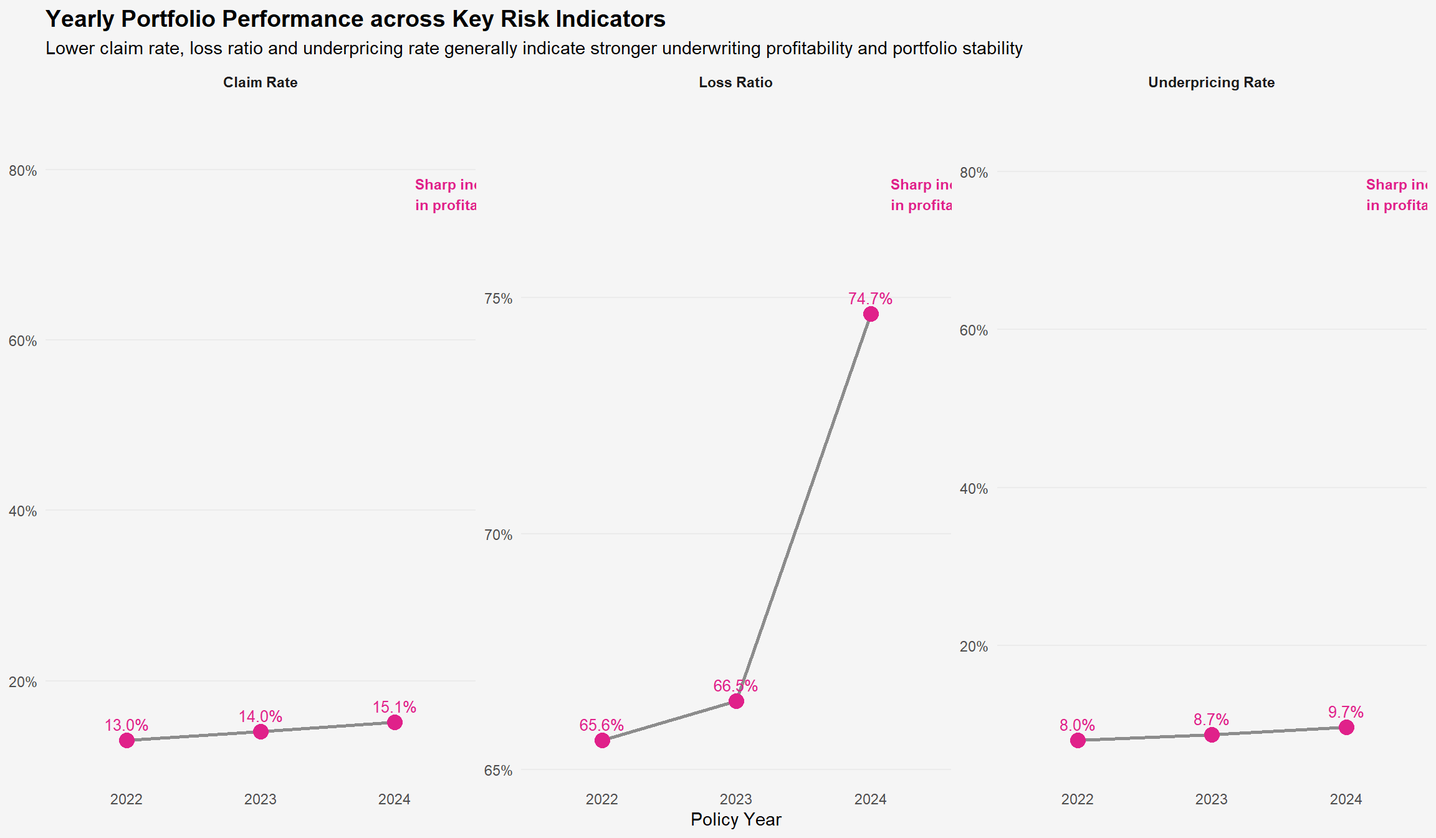
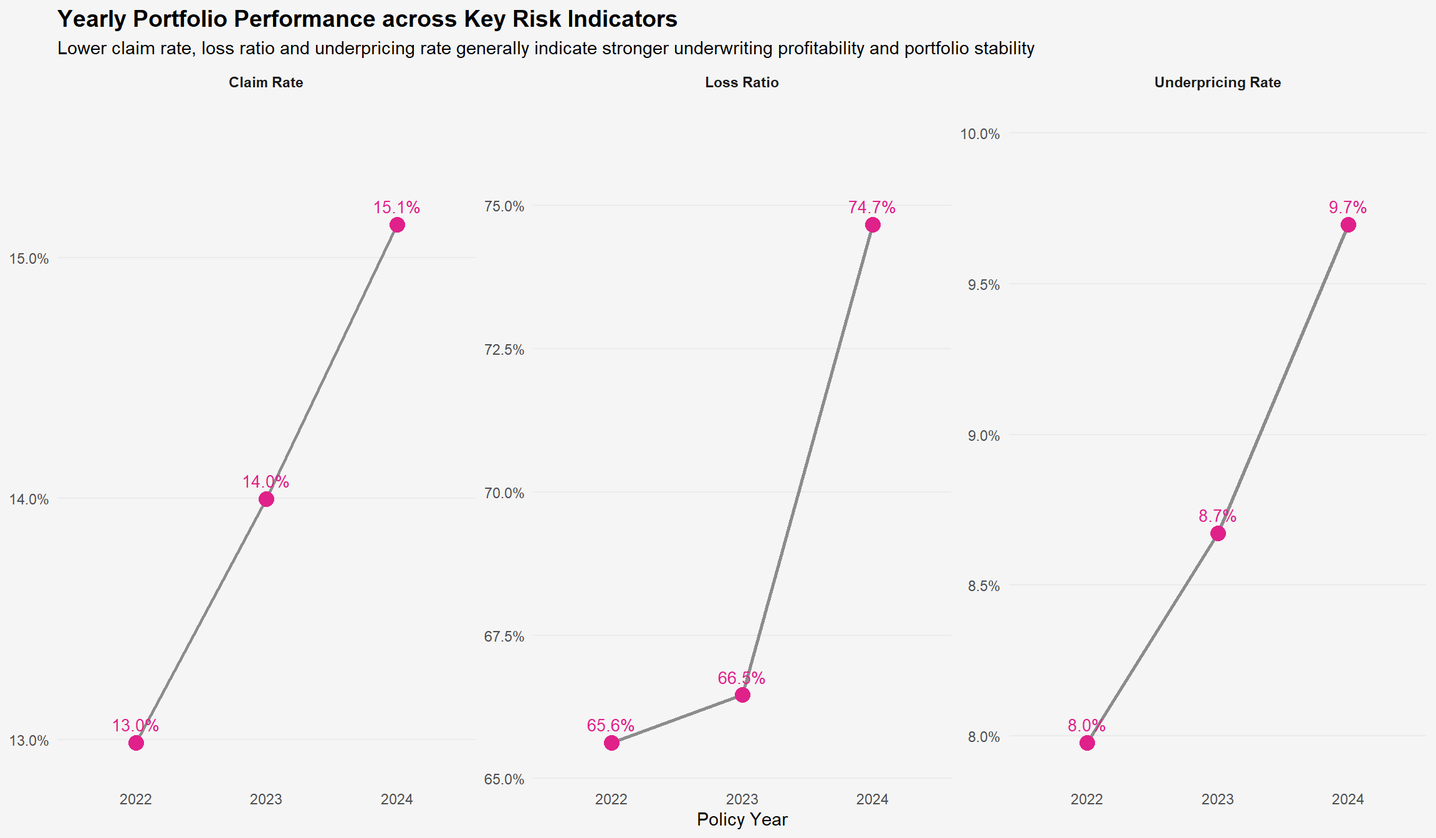
Revision to Take Home Exercise1

diff --git a/docs/Take-Home_Ex/Take-Home_Ex01/Take-Home_Ex01.html b/docs/Take-Home_Ex/Take-Home_Ex01/Take-Home_Ex01.html
@@ -314,6 +314,7 @@ pre > code.sourceCode > span > a:first-child::before { text-decoration: underlin
   <li><a href="#summary" id="toc-summary" class="nav-link" data-scroll-target="#summary">6 Summary</a>
   <ul class="collapse">
   <li><a href="#key-findings" id="toc-key-findings" class="nav-link" data-scroll-target="#key-findings">Key Findings</a></li>
+  <li><a href="#recommendations-for-future-research" id="toc-recommendations-for-future-research" class="nav-link" data-scroll-target="#recommendations-for-future-research">Recommendations for Future Research</a></li>
   </ul></li>
   <li><a href="#references" id="toc-references" class="nav-link" data-scroll-target="#references">7 <strong>References</strong></a></li>
   </ul>
@@ -2773,187 +2774,142 @@ $ loss_ratio_group         &lt;chr&gt; "No loss", "No loss", "Low loss ratio", "
 <span id="cb25-2"><a href="#cb25-2" aria-hidden="true" tabindex="-1"></a>  motor_feature <span class="sc">|&gt;</span></span>
 <span id="cb25-3"><a href="#cb25-3" aria-hidden="true" tabindex="-1"></a>  <span class="fu">group_by</span>(year) <span class="sc">|&gt;</span></span>
 <span id="cb25-4"><a href="#cb25-4" aria-hidden="true" tabindex="-1"></a>  <span class="fu">summarise</span>(</span>
-<span id="cb25-5"><a href="#cb25-5" aria-hidden="true" tabindex="-1"></a>    </span>
-<span id="cb25-6"><a href="#cb25-6" aria-hidden="true" tabindex="-1"></a>    <span class="at">total_policies =</span> <span class="fu">n</span>(),</span>
-<span id="cb25-7"><a href="#cb25-7" aria-hidden="true" tabindex="-1"></a></span>
-<span id="cb25-8"><a href="#cb25-8" aria-hidden="true" tabindex="-1"></a>    <span class="at">claim_rate =</span></span>
-<span id="cb25-9"><a href="#cb25-9" aria-hidden="true" tabindex="-1"></a>      <span class="fu">mean</span>(</span>
-<span id="cb25-10"><a href="#cb25-10" aria-hidden="true" tabindex="-1"></a>        claim_status <span class="sc">==</span> <span class="st">"Claim reported"</span>,</span>
-<span id="cb25-11"><a href="#cb25-11" aria-hidden="true" tabindex="-1"></a>        <span class="at">na.rm =</span> <span class="cn">TRUE</span></span>
-<span id="cb25-12"><a href="#cb25-12" aria-hidden="true" tabindex="-1"></a>      ),</span>
-<span id="cb25-13"><a href="#cb25-13" aria-hidden="true" tabindex="-1"></a></span>
-<span id="cb25-14"><a href="#cb25-14" aria-hidden="true" tabindex="-1"></a>    <span class="at">loss_ratio =</span></span>
-<span id="cb25-15"><a href="#cb25-15" aria-hidden="true" tabindex="-1"></a>      <span class="fu">sum</span>(</span>
-<span id="cb25-16"><a href="#cb25-16" aria-hidden="true" tabindex="-1"></a>        total_incurred,</span>
-<span id="cb25-17"><a href="#cb25-17" aria-hidden="true" tabindex="-1"></a>        <span class="at">na.rm =</span> <span class="cn">TRUE</span></span>
-<span id="cb25-18"><a href="#cb25-18" aria-hidden="true" tabindex="-1"></a>      ) <span class="sc">/</span></span>
-<span id="cb25-19"><a href="#cb25-19" aria-hidden="true" tabindex="-1"></a>      <span class="fu">sum</span>(</span>
-<span id="cb25-20"><a href="#cb25-20" aria-hidden="true" tabindex="-1"></a>        total_premium,</span>
-<span id="cb25-21"><a href="#cb25-21" aria-hidden="true" tabindex="-1"></a>        <span class="at">na.rm =</span> <span class="cn">TRUE</span></span>
-<span id="cb25-22"><a href="#cb25-22" aria-hidden="true" tabindex="-1"></a>      ),</span>
-<span id="cb25-23"><a href="#cb25-23" aria-hidden="true" tabindex="-1"></a></span>
-<span id="cb25-24"><a href="#cb25-24" aria-hidden="true" tabindex="-1"></a>    <span class="at">underpricing_rate =</span></span>
-<span id="cb25-25"><a href="#cb25-25" aria-hidden="true" tabindex="-1"></a>      <span class="fu">mean</span>(</span>
-<span id="cb25-26"><a href="#cb25-26" aria-hidden="true" tabindex="-1"></a>        total_incurred <span class="sc">&gt;</span> total_premium,</span>
-<span id="cb25-27"><a href="#cb25-27" aria-hidden="true" tabindex="-1"></a>        <span class="at">na.rm =</span> <span class="cn">TRUE</span></span>
-<span id="cb25-28"><a href="#cb25-28" aria-hidden="true" tabindex="-1"></a>      ),</span>
-<span id="cb25-29"><a href="#cb25-29" aria-hidden="true" tabindex="-1"></a></span>
-<span id="cb25-30"><a href="#cb25-30" aria-hidden="true" tabindex="-1"></a>    <span class="at">.groups =</span> <span class="st">"drop"</span></span>
-<span id="cb25-31"><a href="#cb25-31" aria-hidden="true" tabindex="-1"></a>  ) <span class="sc">|&gt;</span></span>
-<span id="cb25-32"><a href="#cb25-32" aria-hidden="true" tabindex="-1"></a></span>
-<span id="cb25-33"><a href="#cb25-33" aria-hidden="true" tabindex="-1"></a>  <span class="fu">pivot_longer</span>(</span>
-<span id="cb25-34"><a href="#cb25-34" aria-hidden="true" tabindex="-1"></a>    <span class="at">cols =</span> <span class="fu">c</span>(</span>
-<span id="cb25-35"><a href="#cb25-35" aria-hidden="true" tabindex="-1"></a>      claim_rate,</span>
-<span id="cb25-36"><a href="#cb25-36" aria-hidden="true" tabindex="-1"></a>      loss_ratio,</span>
-<span id="cb25-37"><a href="#cb25-37" aria-hidden="true" tabindex="-1"></a>      underpricing_rate</span>
-<span id="cb25-38"><a href="#cb25-38" aria-hidden="true" tabindex="-1"></a>    ),</span>
-<span id="cb25-39"><a href="#cb25-39" aria-hidden="true" tabindex="-1"></a></span>
-<span id="cb25-40"><a href="#cb25-40" aria-hidden="true" tabindex="-1"></a>    <span class="at">names_to =</span> <span class="st">"metric"</span>,</span>
-<span id="cb25-41"><a href="#cb25-41" aria-hidden="true" tabindex="-1"></a></span>
-<span id="cb25-42"><a href="#cb25-42" aria-hidden="true" tabindex="-1"></a>    <span class="at">values_to =</span> <span class="st">"value"</span></span>
-<span id="cb25-43"><a href="#cb25-43" aria-hidden="true" tabindex="-1"></a>  ) <span class="sc">|&gt;</span></span>
-<span id="cb25-44"><a href="#cb25-44" aria-hidden="true" tabindex="-1"></a></span>
-<span id="cb25-45"><a href="#cb25-45" aria-hidden="true" tabindex="-1"></a>  <span class="fu">mutate</span>(</span>
-<span id="cb25-46"><a href="#cb25-46" aria-hidden="true" tabindex="-1"></a>    </span>
-<span id="cb25-47"><a href="#cb25-47" aria-hidden="true" tabindex="-1"></a>    <span class="at">metric =</span></span>
-<span id="cb25-48"><a href="#cb25-48" aria-hidden="true" tabindex="-1"></a>      <span class="fu">case_when</span>(</span>
-<span id="cb25-49"><a href="#cb25-49" aria-hidden="true" tabindex="-1"></a>        metric <span class="sc">==</span> <span class="st">"claim_rate"</span> <span class="sc">~</span> <span class="st">"Claim Rate"</span>,</span>
-<span id="cb25-50"><a href="#cb25-50" aria-hidden="true" tabindex="-1"></a>        metric <span class="sc">==</span> <span class="st">"loss_ratio"</span> <span class="sc">~</span> <span class="st">"Loss Ratio"</span>,</span>
-<span id="cb25-51"><a href="#cb25-51" aria-hidden="true" tabindex="-1"></a>        metric <span class="sc">==</span> <span class="st">"underpricing_rate"</span> <span class="sc">~</span> <span class="st">"Underpricing Rate"</span></span>
-<span id="cb25-52"><a href="#cb25-52" aria-hidden="true" tabindex="-1"></a>      )</span>
-<span id="cb25-53"><a href="#cb25-53" aria-hidden="true" tabindex="-1"></a>  )</span>
-<span id="cb25-54"><a href="#cb25-54" aria-hidden="true" tabindex="-1"></a></span>
-<span id="cb25-55"><a href="#cb25-55" aria-hidden="true" tabindex="-1"></a>yearly_performance_plot <span class="ot">&lt;-</span></span>
-<span id="cb25-56"><a href="#cb25-56" aria-hidden="true" tabindex="-1"></a></span>
-<span id="cb25-57"><a href="#cb25-57" aria-hidden="true" tabindex="-1"></a><span class="fu">ggplot</span>(</span>
-<span id="cb25-58"><a href="#cb25-58" aria-hidden="true" tabindex="-1"></a>  </span>
-<span id="cb25-59"><a href="#cb25-59" aria-hidden="true" tabindex="-1"></a>  yearly_performance,</span>
-<span id="cb25-60"><a href="#cb25-60" aria-hidden="true" tabindex="-1"></a></span>
-<span id="cb25-61"><a href="#cb25-61" aria-hidden="true" tabindex="-1"></a>  <span class="fu">aes</span>(</span>
-<span id="cb25-62"><a href="#cb25-62" aria-hidden="true" tabindex="-1"></a>    <span class="at">x =</span> <span class="fu">factor</span>(year),</span>
-<span id="cb25-63"><a href="#cb25-63" aria-hidden="true" tabindex="-1"></a>    <span class="at">y =</span> value,</span>
-<span id="cb25-64"><a href="#cb25-64" aria-hidden="true" tabindex="-1"></a>    <span class="at">group =</span> metric</span>
-<span id="cb25-65"><a href="#cb25-65" aria-hidden="true" tabindex="-1"></a>  )</span>
-<span id="cb25-66"><a href="#cb25-66" aria-hidden="true" tabindex="-1"></a></span>
-<span id="cb25-67"><a href="#cb25-67" aria-hidden="true" tabindex="-1"></a>)<span class="sc">+</span></span>
-<span id="cb25-68"><a href="#cb25-68" aria-hidden="true" tabindex="-1"></a></span>
-<span id="cb25-69"><a href="#cb25-69" aria-hidden="true" tabindex="-1"></a><span class="fu">geom_line</span>(</span>
-<span id="cb25-70"><a href="#cb25-70" aria-hidden="true" tabindex="-1"></a></span>
-<span id="cb25-71"><a href="#cb25-71" aria-hidden="true" tabindex="-1"></a>  <span class="at">colour =</span> <span class="st">"grey55"</span>,</span>
-<span id="cb25-72"><a href="#cb25-72" aria-hidden="true" tabindex="-1"></a></span>
-<span id="cb25-73"><a href="#cb25-73" aria-hidden="true" tabindex="-1"></a>  <span class="at">linewidth =</span> <span class="dv">1</span></span>
-<span id="cb25-74"><a href="#cb25-74" aria-hidden="true" tabindex="-1"></a></span>
-<span id="cb25-75"><a href="#cb25-75" aria-hidden="true" tabindex="-1"></a>)<span class="sc">+</span></span>
-<span id="cb25-76"><a href="#cb25-76" aria-hidden="true" tabindex="-1"></a></span>
-<span id="cb25-77"><a href="#cb25-77" aria-hidden="true" tabindex="-1"></a><span class="fu">geom_point</span>(</span>
-<span id="cb25-78"><a href="#cb25-78" aria-hidden="true" tabindex="-1"></a></span>
-<span id="cb25-79"><a href="#cb25-79" aria-hidden="true" tabindex="-1"></a>  <span class="at">colour =</span> <span class="st">"#E0218A"</span>,</span>
-<span id="cb25-80"><a href="#cb25-80" aria-hidden="true" tabindex="-1"></a></span>
-<span id="cb25-81"><a href="#cb25-81" aria-hidden="true" tabindex="-1"></a>  <span class="at">size =</span> <span class="dv">4</span></span>
-<span id="cb25-82"><a href="#cb25-82" aria-hidden="true" tabindex="-1"></a></span>
-<span id="cb25-83"><a href="#cb25-83" aria-hidden="true" tabindex="-1"></a>)<span class="sc">+</span></span>
-<span id="cb25-84"><a href="#cb25-84" aria-hidden="true" tabindex="-1"></a></span>
-<span id="cb25-85"><a href="#cb25-85" aria-hidden="true" tabindex="-1"></a><span class="fu">geom_text</span>(</span>
-<span id="cb25-86"><a href="#cb25-86" aria-hidden="true" tabindex="-1"></a></span>
-<span id="cb25-87"><a href="#cb25-87" aria-hidden="true" tabindex="-1"></a><span class="fu">aes</span>(</span>
-<span id="cb25-88"><a href="#cb25-88" aria-hidden="true" tabindex="-1"></a></span>
-<span id="cb25-89"><a href="#cb25-89" aria-hidden="true" tabindex="-1"></a><span class="at">label =</span></span>
-<span id="cb25-90"><a href="#cb25-90" aria-hidden="true" tabindex="-1"></a>  scales<span class="sc">::</span><span class="fu">percent</span>(</span>
-<span id="cb25-91"><a href="#cb25-91" aria-hidden="true" tabindex="-1"></a>    value,</span>
-<span id="cb25-92"><a href="#cb25-92" aria-hidden="true" tabindex="-1"></a>    <span class="at">accuracy =</span> <span class="fl">0.1</span></span>
-<span id="cb25-93"><a href="#cb25-93" aria-hidden="true" tabindex="-1"></a>  )</span>
-<span id="cb25-94"><a href="#cb25-94" aria-hidden="true" tabindex="-1"></a></span>
-<span id="cb25-95"><a href="#cb25-95" aria-hidden="true" tabindex="-1"></a>),</span>
-<span id="cb25-96"><a href="#cb25-96" aria-hidden="true" tabindex="-1"></a></span>
-<span id="cb25-97"><a href="#cb25-97" aria-hidden="true" tabindex="-1"></a><span class="at">vjust =</span> <span class="sc">-</span><span class="fl">0.8</span>,</span>
-<span id="cb25-98"><a href="#cb25-98" aria-hidden="true" tabindex="-1"></a><span class="at">size =</span> <span class="fl">3.4</span>,</span>
-<span id="cb25-99"><a href="#cb25-99" aria-hidden="true" tabindex="-1"></a><span class="at">colour =</span> <span class="st">"#E0218A"</span></span>
-<span id="cb25-100"><a href="#cb25-100" aria-hidden="true" tabindex="-1"></a></span>
-<span id="cb25-101"><a href="#cb25-101" aria-hidden="true" tabindex="-1"></a>)<span class="sc">+</span></span>
-<span id="cb25-102"><a href="#cb25-102" aria-hidden="true" tabindex="-1"></a></span>
-<span id="cb25-103"><a href="#cb25-103" aria-hidden="true" tabindex="-1"></a><span class="fu">facet_wrap</span>(</span>
-<span id="cb25-104"><a href="#cb25-104" aria-hidden="true" tabindex="-1"></a><span class="sc">~</span> metric,</span>
-<span id="cb25-105"><a href="#cb25-105" aria-hidden="true" tabindex="-1"></a><span class="at">scales =</span> <span class="st">"free_y"</span></span>
-<span id="cb25-106"><a href="#cb25-106" aria-hidden="true" tabindex="-1"></a></span>
-<span id="cb25-107"><a href="#cb25-107" aria-hidden="true" tabindex="-1"></a>)<span class="sc">+</span></span>
-<span id="cb25-108"><a href="#cb25-108" aria-hidden="true" tabindex="-1"></a></span>
-<span id="cb25-109"><a href="#cb25-109" aria-hidden="true" tabindex="-1"></a><span class="fu">annotate</span>(</span>
-<span id="cb25-110"><a href="#cb25-110" aria-hidden="true" tabindex="-1"></a><span class="st">"text"</span>,</span>
-<span id="cb25-111"><a href="#cb25-111" aria-hidden="true" tabindex="-1"></a><span class="at">x =</span> <span class="fl">3.15</span>,</span>
-<span id="cb25-112"><a href="#cb25-112" aria-hidden="true" tabindex="-1"></a><span class="at">y =</span> <span class="fl">0.772</span>,</span>
-<span id="cb25-113"><a href="#cb25-113" aria-hidden="true" tabindex="-1"></a><span class="at">label =</span></span>
-<span id="cb25-114"><a href="#cb25-114" aria-hidden="true" tabindex="-1"></a>  <span class="st">"Sharp increase</span><span class="sc">\n</span><span class="st">in profitability pressure"</span>,</span>
-<span id="cb25-115"><a href="#cb25-115" aria-hidden="true" tabindex="-1"></a><span class="at">size =</span> <span class="dv">3</span>,</span>
-<span id="cb25-116"><a href="#cb25-116" aria-hidden="true" tabindex="-1"></a><span class="at">colour =</span> <span class="st">"#E0218A"</span>,</span>
-<span id="cb25-117"><a href="#cb25-117" aria-hidden="true" tabindex="-1"></a><span class="at">fontface =</span> <span class="st">"bold"</span>,</span>
-<span id="cb25-118"><a href="#cb25-118" aria-hidden="true" tabindex="-1"></a><span class="at">hjust =</span> <span class="dv">0</span></span>
-<span id="cb25-119"><a href="#cb25-119" aria-hidden="true" tabindex="-1"></a></span>
-<span id="cb25-120"><a href="#cb25-120" aria-hidden="true" tabindex="-1"></a>)<span class="sc">+</span></span>
-<span id="cb25-121"><a href="#cb25-121" aria-hidden="true" tabindex="-1"></a></span>
-<span id="cb25-122"><a href="#cb25-122" aria-hidden="true" tabindex="-1"></a><span class="fu">scale_y_continuous</span>(</span>
-<span id="cb25-123"><a href="#cb25-123" aria-hidden="true" tabindex="-1"></a></span>
-<span id="cb25-124"><a href="#cb25-124" aria-hidden="true" tabindex="-1"></a><span class="at">labels =</span></span>
-<span id="cb25-125"><a href="#cb25-125" aria-hidden="true" tabindex="-1"></a>  scales<span class="sc">::</span>percent,</span>
-<span id="cb25-126"><a href="#cb25-126" aria-hidden="true" tabindex="-1"></a></span>
-<span id="cb25-127"><a href="#cb25-127" aria-hidden="true" tabindex="-1"></a><span class="at">expand =</span></span>
-<span id="cb25-128"><a href="#cb25-128" aria-hidden="true" tabindex="-1"></a>  <span class="fu">expansion</span>(</span>
-<span id="cb25-129"><a href="#cb25-129" aria-hidden="true" tabindex="-1"></a>    <span class="at">mult =</span> <span class="fu">c</span>(</span>
-<span id="cb25-130"><a href="#cb25-130" aria-hidden="true" tabindex="-1"></a>      <span class="fl">0.08</span>,</span>
-<span id="cb25-131"><a href="#cb25-131" aria-hidden="true" tabindex="-1"></a>      <span class="fl">0.18</span></span>
-<span id="cb25-132"><a href="#cb25-132" aria-hidden="true" tabindex="-1"></a>    )</span>
-<span id="cb25-133"><a href="#cb25-133" aria-hidden="true" tabindex="-1"></a>  )</span>
-<span id="cb25-134"><a href="#cb25-134" aria-hidden="true" tabindex="-1"></a></span>
-<span id="cb25-135"><a href="#cb25-135" aria-hidden="true" tabindex="-1"></a>)<span class="sc">+</span></span>
-<span id="cb25-136"><a href="#cb25-136" aria-hidden="true" tabindex="-1"></a></span>
-<span id="cb25-137"><a href="#cb25-137" aria-hidden="true" tabindex="-1"></a><span class="fu">labs</span>(</span>
-<span id="cb25-138"><a href="#cb25-138" aria-hidden="true" tabindex="-1"></a></span>
-<span id="cb25-139"><a href="#cb25-139" aria-hidden="true" tabindex="-1"></a><span class="at">title =</span></span>
-<span id="cb25-140"><a href="#cb25-140" aria-hidden="true" tabindex="-1"></a>  <span class="st">"Yearly Portfolio Performance across Key Risk Indicators"</span>,</span>
-<span id="cb25-141"><a href="#cb25-141" aria-hidden="true" tabindex="-1"></a><span class="at">subtitle =</span></span>
-<span id="cb25-142"><a href="#cb25-142" aria-hidden="true" tabindex="-1"></a>  <span class="st">"Lower claim rate, loss ratio and underpricing rate generally indicate stronger underwriting profitability and portfolio stability"</span>,</span>
-<span id="cb25-143"><a href="#cb25-143" aria-hidden="true" tabindex="-1"></a><span class="at">x =</span></span>
-<span id="cb25-144"><a href="#cb25-144" aria-hidden="true" tabindex="-1"></a>  <span class="st">"Policy Year"</span>,</span>
-<span id="cb25-145"><a href="#cb25-145" aria-hidden="true" tabindex="-1"></a><span class="at">y =</span> <span class="cn">NULL</span></span>
-<span id="cb25-146"><a href="#cb25-146" aria-hidden="true" tabindex="-1"></a></span>
-<span id="cb25-147"><a href="#cb25-147" aria-hidden="true" tabindex="-1"></a>)<span class="sc">+</span></span>
-<span id="cb25-148"><a href="#cb25-148" aria-hidden="true" tabindex="-1"></a></span>
-<span id="cb25-149"><a href="#cb25-149" aria-hidden="true" tabindex="-1"></a><span class="fu">theme_minimal</span>()<span class="sc">+</span></span>
-<span id="cb25-150"><a href="#cb25-150" aria-hidden="true" tabindex="-1"></a></span>
-<span id="cb25-151"><a href="#cb25-151" aria-hidden="true" tabindex="-1"></a><span class="fu">theme</span>(</span>
-<span id="cb25-152"><a href="#cb25-152" aria-hidden="true" tabindex="-1"></a><span class="at">panel.grid.major.x =</span></span>
-<span id="cb25-153"><a href="#cb25-153" aria-hidden="true" tabindex="-1"></a>  <span class="fu">element_blank</span>(),</span>
-<span id="cb25-154"><a href="#cb25-154" aria-hidden="true" tabindex="-1"></a><span class="at">panel.grid.minor =</span></span>
-<span id="cb25-155"><a href="#cb25-155" aria-hidden="true" tabindex="-1"></a>  <span class="fu">element_blank</span>(),</span>
-<span id="cb25-156"><a href="#cb25-156" aria-hidden="true" tabindex="-1"></a></span>
-<span id="cb25-157"><a href="#cb25-157" aria-hidden="true" tabindex="-1"></a><span class="at">plot.background =</span></span>
-<span id="cb25-158"><a href="#cb25-158" aria-hidden="true" tabindex="-1"></a>  <span class="fu">element_rect</span>(</span>
-<span id="cb25-159"><a href="#cb25-159" aria-hidden="true" tabindex="-1"></a>    <span class="at">fill =</span> <span class="st">"#f5f5f5"</span>,</span>
-<span id="cb25-160"><a href="#cb25-160" aria-hidden="true" tabindex="-1"></a>    <span class="at">colour =</span> <span class="st">"#f5f5f5"</span></span>
-<span id="cb25-161"><a href="#cb25-161" aria-hidden="true" tabindex="-1"></a>  ),</span>
-<span id="cb25-162"><a href="#cb25-162" aria-hidden="true" tabindex="-1"></a></span>
-<span id="cb25-163"><a href="#cb25-163" aria-hidden="true" tabindex="-1"></a><span class="at">panel.background =</span></span>
-<span id="cb25-164"><a href="#cb25-164" aria-hidden="true" tabindex="-1"></a>  <span class="fu">element_rect</span>(</span>
-<span id="cb25-165"><a href="#cb25-165" aria-hidden="true" tabindex="-1"></a>    <span class="at">fill =</span> <span class="st">"#f5f5f5"</span>,</span>
-<span id="cb25-166"><a href="#cb25-166" aria-hidden="true" tabindex="-1"></a>    <span class="at">colour =</span> <span class="st">"#f5f5f5"</span></span>
-<span id="cb25-167"><a href="#cb25-167" aria-hidden="true" tabindex="-1"></a>  ),</span>
-<span id="cb25-168"><a href="#cb25-168" aria-hidden="true" tabindex="-1"></a></span>
-<span id="cb25-169"><a href="#cb25-169" aria-hidden="true" tabindex="-1"></a><span class="at">strip.text =</span></span>
-<span id="cb25-170"><a href="#cb25-170" aria-hidden="true" tabindex="-1"></a>  <span class="fu">element_text</span>(</span>
-<span id="cb25-171"><a href="#cb25-171" aria-hidden="true" tabindex="-1"></a>    <span class="at">face =</span> <span class="st">"bold"</span></span>
-<span id="cb25-172"><a href="#cb25-172" aria-hidden="true" tabindex="-1"></a>  ),</span>
-<span id="cb25-173"><a href="#cb25-173" aria-hidden="true" tabindex="-1"></a></span>
-<span id="cb25-174"><a href="#cb25-174" aria-hidden="true" tabindex="-1"></a><span class="at">plot.title =</span></span>
-<span id="cb25-175"><a href="#cb25-175" aria-hidden="true" tabindex="-1"></a>  <span class="fu">element_text</span>(</span>
-<span id="cb25-176"><a href="#cb25-176" aria-hidden="true" tabindex="-1"></a>    <span class="at">face =</span> <span class="st">"bold"</span>,</span>
-<span id="cb25-177"><a href="#cb25-177" aria-hidden="true" tabindex="-1"></a>    <span class="at">size =</span> <span class="dv">14</span></span>
-<span id="cb25-178"><a href="#cb25-178" aria-hidden="true" tabindex="-1"></a>  ),</span>
-<span id="cb25-179"><a href="#cb25-179" aria-hidden="true" tabindex="-1"></a></span>
-<span id="cb25-180"><a href="#cb25-180" aria-hidden="true" tabindex="-1"></a><span class="at">axis.ticks =</span></span>
-<span id="cb25-181"><a href="#cb25-181" aria-hidden="true" tabindex="-1"></a>  <span class="fu">element_blank</span>()</span>
-<span id="cb25-182"><a href="#cb25-182" aria-hidden="true" tabindex="-1"></a></span>
-<span id="cb25-183"><a href="#cb25-183" aria-hidden="true" tabindex="-1"></a>)</span>
-<span id="cb25-184"><a href="#cb25-184" aria-hidden="true" tabindex="-1"></a></span>
-<span id="cb25-185"><a href="#cb25-185" aria-hidden="true" tabindex="-1"></a>yearly_performance_plot</span></code></pre></div><button title="Copy to Clipboard" class="code-copy-button"><i class="bi"></i></button></div>
+<span id="cb25-5"><a href="#cb25-5" aria-hidden="true" tabindex="-1"></a>    <span class="at">total_policies =</span> <span class="fu">n</span>(),</span>
+<span id="cb25-6"><a href="#cb25-6" aria-hidden="true" tabindex="-1"></a></span>
+<span id="cb25-7"><a href="#cb25-7" aria-hidden="true" tabindex="-1"></a>    <span class="at">claim_rate =</span></span>
+<span id="cb25-8"><a href="#cb25-8" aria-hidden="true" tabindex="-1"></a>      <span class="fu">mean</span>(</span>
+<span id="cb25-9"><a href="#cb25-9" aria-hidden="true" tabindex="-1"></a>        claim_status <span class="sc">==</span> <span class="st">"Claim reported"</span>,</span>
+<span id="cb25-10"><a href="#cb25-10" aria-hidden="true" tabindex="-1"></a>        <span class="at">na.rm =</span> <span class="cn">TRUE</span></span>
+<span id="cb25-11"><a href="#cb25-11" aria-hidden="true" tabindex="-1"></a>      ),</span>
+<span id="cb25-12"><a href="#cb25-12" aria-hidden="true" tabindex="-1"></a></span>
+<span id="cb25-13"><a href="#cb25-13" aria-hidden="true" tabindex="-1"></a>    <span class="at">loss_ratio =</span></span>
+<span id="cb25-14"><a href="#cb25-14" aria-hidden="true" tabindex="-1"></a>      <span class="fu">sum</span>(</span>
+<span id="cb25-15"><a href="#cb25-15" aria-hidden="true" tabindex="-1"></a>        total_incurred,</span>
+<span id="cb25-16"><a href="#cb25-16" aria-hidden="true" tabindex="-1"></a>        <span class="at">na.rm =</span> <span class="cn">TRUE</span></span>
+<span id="cb25-17"><a href="#cb25-17" aria-hidden="true" tabindex="-1"></a>      ) <span class="sc">/</span></span>
+<span id="cb25-18"><a href="#cb25-18" aria-hidden="true" tabindex="-1"></a>      <span class="fu">sum</span>(</span>
+<span id="cb25-19"><a href="#cb25-19" aria-hidden="true" tabindex="-1"></a>        total_premium,</span>
+<span id="cb25-20"><a href="#cb25-20" aria-hidden="true" tabindex="-1"></a>        <span class="at">na.rm =</span> <span class="cn">TRUE</span></span>
+<span id="cb25-21"><a href="#cb25-21" aria-hidden="true" tabindex="-1"></a>      ),</span>
+<span id="cb25-22"><a href="#cb25-22" aria-hidden="true" tabindex="-1"></a></span>
+<span id="cb25-23"><a href="#cb25-23" aria-hidden="true" tabindex="-1"></a>    <span class="at">underpricing_rate =</span></span>
+<span id="cb25-24"><a href="#cb25-24" aria-hidden="true" tabindex="-1"></a>      <span class="fu">mean</span>(</span>
+<span id="cb25-25"><a href="#cb25-25" aria-hidden="true" tabindex="-1"></a>        total_incurred <span class="sc">&gt;</span> total_premium,</span>
+<span id="cb25-26"><a href="#cb25-26" aria-hidden="true" tabindex="-1"></a>        <span class="at">na.rm =</span> <span class="cn">TRUE</span></span>
+<span id="cb25-27"><a href="#cb25-27" aria-hidden="true" tabindex="-1"></a>      ),</span>
+<span id="cb25-28"><a href="#cb25-28" aria-hidden="true" tabindex="-1"></a></span>
+<span id="cb25-29"><a href="#cb25-29" aria-hidden="true" tabindex="-1"></a>    <span class="at">.groups =</span> <span class="st">"drop"</span></span>
+<span id="cb25-30"><a href="#cb25-30" aria-hidden="true" tabindex="-1"></a>  ) <span class="sc">|&gt;</span></span>
+<span id="cb25-31"><a href="#cb25-31" aria-hidden="true" tabindex="-1"></a>  <span class="fu">pivot_longer</span>(</span>
+<span id="cb25-32"><a href="#cb25-32" aria-hidden="true" tabindex="-1"></a>    <span class="at">cols =</span> <span class="fu">c</span>(</span>
+<span id="cb25-33"><a href="#cb25-33" aria-hidden="true" tabindex="-1"></a>      claim_rate,</span>
+<span id="cb25-34"><a href="#cb25-34" aria-hidden="true" tabindex="-1"></a>      loss_ratio,</span>
+<span id="cb25-35"><a href="#cb25-35" aria-hidden="true" tabindex="-1"></a>      underpricing_rate</span>
+<span id="cb25-36"><a href="#cb25-36" aria-hidden="true" tabindex="-1"></a>    ),</span>
+<span id="cb25-37"><a href="#cb25-37" aria-hidden="true" tabindex="-1"></a>    <span class="at">names_to =</span> <span class="st">"metric"</span>,</span>
+<span id="cb25-38"><a href="#cb25-38" aria-hidden="true" tabindex="-1"></a>    <span class="at">values_to =</span> <span class="st">"value"</span></span>
+<span id="cb25-39"><a href="#cb25-39" aria-hidden="true" tabindex="-1"></a>  ) <span class="sc">|&gt;</span></span>
+<span id="cb25-40"><a href="#cb25-40" aria-hidden="true" tabindex="-1"></a>  <span class="fu">mutate</span>(</span>
+<span id="cb25-41"><a href="#cb25-41" aria-hidden="true" tabindex="-1"></a>    <span class="at">metric =</span></span>
+<span id="cb25-42"><a href="#cb25-42" aria-hidden="true" tabindex="-1"></a>      <span class="fu">case_when</span>(</span>
+<span id="cb25-43"><a href="#cb25-43" aria-hidden="true" tabindex="-1"></a>        metric <span class="sc">==</span> <span class="st">"claim_rate"</span> <span class="sc">~</span> <span class="st">"Claim Rate"</span>,</span>
+<span id="cb25-44"><a href="#cb25-44" aria-hidden="true" tabindex="-1"></a>        metric <span class="sc">==</span> <span class="st">"loss_ratio"</span> <span class="sc">~</span> <span class="st">"Loss Ratio"</span>,</span>
+<span id="cb25-45"><a href="#cb25-45" aria-hidden="true" tabindex="-1"></a>        metric <span class="sc">==</span> <span class="st">"underpricing_rate"</span> <span class="sc">~</span> <span class="st">"Underpricing Rate"</span></span>
+<span id="cb25-46"><a href="#cb25-46" aria-hidden="true" tabindex="-1"></a>      )</span>
+<span id="cb25-47"><a href="#cb25-47" aria-hidden="true" tabindex="-1"></a>  )</span>
+<span id="cb25-48"><a href="#cb25-48" aria-hidden="true" tabindex="-1"></a></span>
+<span id="cb25-49"><a href="#cb25-49" aria-hidden="true" tabindex="-1"></a>yearly_performance_plot <span class="ot">&lt;-</span></span>
+<span id="cb25-50"><a href="#cb25-50" aria-hidden="true" tabindex="-1"></a>  <span class="fu">ggplot</span>(</span>
+<span id="cb25-51"><a href="#cb25-51" aria-hidden="true" tabindex="-1"></a>    yearly_performance,</span>
+<span id="cb25-52"><a href="#cb25-52" aria-hidden="true" tabindex="-1"></a>    <span class="fu">aes</span>(</span>
+<span id="cb25-53"><a href="#cb25-53" aria-hidden="true" tabindex="-1"></a>      <span class="at">x =</span> <span class="fu">factor</span>(year),</span>
+<span id="cb25-54"><a href="#cb25-54" aria-hidden="true" tabindex="-1"></a>      <span class="at">y =</span> value,</span>
+<span id="cb25-55"><a href="#cb25-55" aria-hidden="true" tabindex="-1"></a>      <span class="at">group =</span> metric</span>
+<span id="cb25-56"><a href="#cb25-56" aria-hidden="true" tabindex="-1"></a>    )</span>
+<span id="cb25-57"><a href="#cb25-57" aria-hidden="true" tabindex="-1"></a>  ) <span class="sc">+</span></span>
+<span id="cb25-58"><a href="#cb25-58" aria-hidden="true" tabindex="-1"></a>  <span class="fu">geom_line</span>(</span>
+<span id="cb25-59"><a href="#cb25-59" aria-hidden="true" tabindex="-1"></a>    <span class="at">colour =</span> <span class="st">"grey55"</span>,</span>
+<span id="cb25-60"><a href="#cb25-60" aria-hidden="true" tabindex="-1"></a>    <span class="at">linewidth =</span> <span class="dv">1</span></span>
+<span id="cb25-61"><a href="#cb25-61" aria-hidden="true" tabindex="-1"></a>  ) <span class="sc">+</span></span>
+<span id="cb25-62"><a href="#cb25-62" aria-hidden="true" tabindex="-1"></a>  <span class="fu">geom_point</span>(</span>
+<span id="cb25-63"><a href="#cb25-63" aria-hidden="true" tabindex="-1"></a>    <span class="at">colour =</span> <span class="st">"#E0218A"</span>,</span>
+<span id="cb25-64"><a href="#cb25-64" aria-hidden="true" tabindex="-1"></a>    <span class="at">size =</span> <span class="dv">4</span></span>
+<span id="cb25-65"><a href="#cb25-65" aria-hidden="true" tabindex="-1"></a>  ) <span class="sc">+</span></span>
+<span id="cb25-66"><a href="#cb25-66" aria-hidden="true" tabindex="-1"></a>  <span class="fu">geom_text</span>(</span>
+<span id="cb25-67"><a href="#cb25-67" aria-hidden="true" tabindex="-1"></a>    <span class="fu">aes</span>(</span>
+<span id="cb25-68"><a href="#cb25-68" aria-hidden="true" tabindex="-1"></a>      <span class="at">label =</span></span>
+<span id="cb25-69"><a href="#cb25-69" aria-hidden="true" tabindex="-1"></a>        scales<span class="sc">::</span><span class="fu">percent</span>(</span>
+<span id="cb25-70"><a href="#cb25-70" aria-hidden="true" tabindex="-1"></a>          value,</span>
+<span id="cb25-71"><a href="#cb25-71" aria-hidden="true" tabindex="-1"></a>          <span class="at">accuracy =</span> <span class="fl">0.1</span></span>
+<span id="cb25-72"><a href="#cb25-72" aria-hidden="true" tabindex="-1"></a>        )</span>
+<span id="cb25-73"><a href="#cb25-73" aria-hidden="true" tabindex="-1"></a>    ),</span>
+<span id="cb25-74"><a href="#cb25-74" aria-hidden="true" tabindex="-1"></a>    <span class="at">vjust =</span> <span class="sc">-</span><span class="fl">0.9</span>,</span>
+<span id="cb25-75"><a href="#cb25-75" aria-hidden="true" tabindex="-1"></a>    <span class="at">size =</span> <span class="fl">3.5</span>,</span>
+<span id="cb25-76"><a href="#cb25-76" aria-hidden="true" tabindex="-1"></a>    <span class="at">colour =</span> <span class="st">"#E0218A"</span></span>
+<span id="cb25-77"><a href="#cb25-77" aria-hidden="true" tabindex="-1"></a>  ) <span class="sc">+</span></span>
+<span id="cb25-78"><a href="#cb25-78" aria-hidden="true" tabindex="-1"></a>  <span class="fu">facet_wrap</span>(</span>
+<span id="cb25-79"><a href="#cb25-79" aria-hidden="true" tabindex="-1"></a>    <span class="sc">~</span> metric,</span>
+<span id="cb25-80"><a href="#cb25-80" aria-hidden="true" tabindex="-1"></a>    <span class="at">scales =</span> <span class="st">"free_y"</span></span>
+<span id="cb25-81"><a href="#cb25-81" aria-hidden="true" tabindex="-1"></a>  ) <span class="sc">+</span></span>
+<span id="cb25-82"><a href="#cb25-82" aria-hidden="true" tabindex="-1"></a>  <span class="fu">scale_y_continuous</span>(</span>
+<span id="cb25-83"><a href="#cb25-83" aria-hidden="true" tabindex="-1"></a>    <span class="at">labels =</span> scales<span class="sc">::</span>percent,</span>
+<span id="cb25-84"><a href="#cb25-84" aria-hidden="true" tabindex="-1"></a>    <span class="at">expand =</span></span>
+<span id="cb25-85"><a href="#cb25-85" aria-hidden="true" tabindex="-1"></a>      <span class="fu">expansion</span>(</span>
+<span id="cb25-86"><a href="#cb25-86" aria-hidden="true" tabindex="-1"></a>        <span class="at">mult =</span> <span class="fu">c</span>(</span>
+<span id="cb25-87"><a href="#cb25-87" aria-hidden="true" tabindex="-1"></a>          <span class="fl">0.08</span>,</span>
+<span id="cb25-88"><a href="#cb25-88" aria-hidden="true" tabindex="-1"></a>          <span class="fl">0.25</span></span>
+<span id="cb25-89"><a href="#cb25-89" aria-hidden="true" tabindex="-1"></a>        )</span>
+<span id="cb25-90"><a href="#cb25-90" aria-hidden="true" tabindex="-1"></a>      )</span>
+<span id="cb25-91"><a href="#cb25-91" aria-hidden="true" tabindex="-1"></a>  ) <span class="sc">+</span></span>
+<span id="cb25-92"><a href="#cb25-92" aria-hidden="true" tabindex="-1"></a>  <span class="fu">labs</span>(</span>
+<span id="cb25-93"><a href="#cb25-93" aria-hidden="true" tabindex="-1"></a>    <span class="at">title =</span></span>
+<span id="cb25-94"><a href="#cb25-94" aria-hidden="true" tabindex="-1"></a>      <span class="st">"Yearly Portfolio Performance across Key Risk Indicators"</span>,</span>
+<span id="cb25-95"><a href="#cb25-95" aria-hidden="true" tabindex="-1"></a></span>
+<span id="cb25-96"><a href="#cb25-96" aria-hidden="true" tabindex="-1"></a>    <span class="at">subtitle =</span></span>
+<span id="cb25-97"><a href="#cb25-97" aria-hidden="true" tabindex="-1"></a>      <span class="st">"Lower claim rate, loss ratio and underpricing rate generally indicate stronger underwriting profitability and portfolio stability"</span>,</span>
+<span id="cb25-98"><a href="#cb25-98" aria-hidden="true" tabindex="-1"></a></span>
+<span id="cb25-99"><a href="#cb25-99" aria-hidden="true" tabindex="-1"></a>    <span class="at">x =</span></span>
+<span id="cb25-100"><a href="#cb25-100" aria-hidden="true" tabindex="-1"></a>      <span class="st">"Policy Year"</span>,</span>
+<span id="cb25-101"><a href="#cb25-101" aria-hidden="true" tabindex="-1"></a></span>
+<span id="cb25-102"><a href="#cb25-102" aria-hidden="true" tabindex="-1"></a>    <span class="at">y =</span></span>
+<span id="cb25-103"><a href="#cb25-103" aria-hidden="true" tabindex="-1"></a>      <span class="cn">NULL</span></span>
+<span id="cb25-104"><a href="#cb25-104" aria-hidden="true" tabindex="-1"></a>  ) <span class="sc">+</span></span>
+<span id="cb25-105"><a href="#cb25-105" aria-hidden="true" tabindex="-1"></a>  <span class="fu">theme_minimal</span>() <span class="sc">+</span></span>
+<span id="cb25-106"><a href="#cb25-106" aria-hidden="true" tabindex="-1"></a>  <span class="fu">theme</span>(</span>
+<span id="cb25-107"><a href="#cb25-107" aria-hidden="true" tabindex="-1"></a>    <span class="at">panel.grid.major.x =</span></span>
+<span id="cb25-108"><a href="#cb25-108" aria-hidden="true" tabindex="-1"></a>      <span class="fu">element_blank</span>(),</span>
+<span id="cb25-109"><a href="#cb25-109" aria-hidden="true" tabindex="-1"></a></span>
+<span id="cb25-110"><a href="#cb25-110" aria-hidden="true" tabindex="-1"></a>    <span class="at">panel.grid.minor =</span></span>
+<span id="cb25-111"><a href="#cb25-111" aria-hidden="true" tabindex="-1"></a>      <span class="fu">element_blank</span>(),</span>
+<span id="cb25-112"><a href="#cb25-112" aria-hidden="true" tabindex="-1"></a></span>
+<span id="cb25-113"><a href="#cb25-113" aria-hidden="true" tabindex="-1"></a>    <span class="at">plot.background =</span></span>
+<span id="cb25-114"><a href="#cb25-114" aria-hidden="true" tabindex="-1"></a>      <span class="fu">element_rect</span>(</span>
+<span id="cb25-115"><a href="#cb25-115" aria-hidden="true" tabindex="-1"></a>        <span class="at">fill =</span> <span class="st">"#f5f5f5"</span>,</span>
+<span id="cb25-116"><a href="#cb25-116" aria-hidden="true" tabindex="-1"></a>        <span class="at">colour =</span> <span class="st">"#f5f5f5"</span></span>
+<span id="cb25-117"><a href="#cb25-117" aria-hidden="true" tabindex="-1"></a>      ),</span>
+<span id="cb25-118"><a href="#cb25-118" aria-hidden="true" tabindex="-1"></a></span>
+<span id="cb25-119"><a href="#cb25-119" aria-hidden="true" tabindex="-1"></a>    <span class="at">panel.background =</span></span>
+<span id="cb25-120"><a href="#cb25-120" aria-hidden="true" tabindex="-1"></a>      <span class="fu">element_rect</span>(</span>
+<span id="cb25-121"><a href="#cb25-121" aria-hidden="true" tabindex="-1"></a>        <span class="at">fill =</span> <span class="st">"#f5f5f5"</span>,</span>
+<span id="cb25-122"><a href="#cb25-122" aria-hidden="true" tabindex="-1"></a>        <span class="at">colour =</span> <span class="st">"#f5f5f5"</span></span>
+<span id="cb25-123"><a href="#cb25-123" aria-hidden="true" tabindex="-1"></a>      ),</span>
+<span id="cb25-124"><a href="#cb25-124" aria-hidden="true" tabindex="-1"></a></span>
+<span id="cb25-125"><a href="#cb25-125" aria-hidden="true" tabindex="-1"></a>    <span class="at">strip.text =</span></span>
+<span id="cb25-126"><a href="#cb25-126" aria-hidden="true" tabindex="-1"></a>      <span class="fu">element_text</span>(</span>
+<span id="cb25-127"><a href="#cb25-127" aria-hidden="true" tabindex="-1"></a>        <span class="at">face =</span> <span class="st">"bold"</span></span>
+<span id="cb25-128"><a href="#cb25-128" aria-hidden="true" tabindex="-1"></a>      ),</span>
+<span id="cb25-129"><a href="#cb25-129" aria-hidden="true" tabindex="-1"></a></span>
+<span id="cb25-130"><a href="#cb25-130" aria-hidden="true" tabindex="-1"></a>    <span class="at">plot.title =</span></span>
+<span id="cb25-131"><a href="#cb25-131" aria-hidden="true" tabindex="-1"></a>      <span class="fu">element_text</span>(</span>
+<span id="cb25-132"><a href="#cb25-132" aria-hidden="true" tabindex="-1"></a>        <span class="at">face =</span> <span class="st">"bold"</span>,</span>
+<span id="cb25-133"><a href="#cb25-133" aria-hidden="true" tabindex="-1"></a>        <span class="at">size =</span> <span class="dv">14</span></span>
+<span id="cb25-134"><a href="#cb25-134" aria-hidden="true" tabindex="-1"></a>      ),</span>
+<span id="cb25-135"><a href="#cb25-135" aria-hidden="true" tabindex="-1"></a></span>
+<span id="cb25-136"><a href="#cb25-136" aria-hidden="true" tabindex="-1"></a>    <span class="at">axis.ticks =</span></span>
+<span id="cb25-137"><a href="#cb25-137" aria-hidden="true" tabindex="-1"></a>      <span class="fu">element_blank</span>()</span>
+<span id="cb25-138"><a href="#cb25-138" aria-hidden="true" tabindex="-1"></a>  )</span>
+<span id="cb25-139"><a href="#cb25-139" aria-hidden="true" tabindex="-1"></a></span>
+<span id="cb25-140"><a href="#cb25-140" aria-hidden="true" tabindex="-1"></a>yearly_performance_plot</span></code></pre></div><button title="Copy to Clipboard" class="code-copy-button"><i class="bi"></i></button></div>
 </details>
 <div class="cell-output-display">
 <div>
@@ -4871,7 +4827,18 @@ $ loss_ratio_group         &lt;chr&gt; "No loss", "No loss", "Low loss ratio", "
 <li><p>Insurance products exhibited markedly different patterns of claims behavior, indicating that portfolio risk is significantly affected by the design of coverage and policy structure rather than being consistent across all products. Comprehensive without Excess policies consistently exhibited the highest claim exposure, with a claim rate of 31.3%, greatly surpassing Third-party policies at 6.9%.</p></li>
 <li><p>Comprehensive insurance products exhibitedthe highest underwriting and profitability challenges throughout the portfolio. Comprehensive without Excess showed the highest average claim cost (600), highest loss ratio (93.9%), and highest underpricing rate (20.8%), suggesting that claim expenses almost consumed the premiums garnered and put the portfolio at increased financial risk.</p></li>
 <li><p>Temporal portfolio analysis revealed increasing underwriting pressure between 2022 and 2024. The year 2022 demonstrated the strongest portfolio performance with the lowest claim rate (13.0%), lowest loss ratio (65.6%), and lowest underpricing rate (8.0%). By 2024, claim rate increased to 15.1%, underpricing rate rose to 9.7%, and loss ratio reached 74.7%, indicating growing profitability pressure and rising claim costs over time.</p></li>
+<li><p>Analysis of vehicle value segmentation showed significant variations in the distributions of claim severity. Vehicles with higher values exhibited broader severity variation, more pronounced upper-tail behavior, and heightened volatility in incurred losses, signifying a greater risk of costly and financially significant claims. This implies that vehicle valuation continues to be an essential factor in assessing portfolio risk during underwriting.</p></li>
+<li><p>Tail-risk and profitability analysis further showed that insurance products possess different volatility and pricing adequacy profiles. Comprehensive products exhibited broader and more right-skewed claim severity distributions, indicating greater exposure to infrequent but costly large-loss events. Additionally, profitability quadrant analysis revealed that higher premium collection does not necessarily translate into stronger underwriting profitability, as several high-premium products continued to experience elevated loss ratios and underpricing pressure.</p></li>
+<li><p>Correlation analysis showed that most portfolio variables each displayed relatively weak direct associations with claim severity and profitability metrics. Apart from the naturally strong association between driver age and driving experience, most underwriting indicators demonstrated low-to-moderate pairwise correlations, suggesting that motor insurance risk is likely influenced by complex interactions among multiple behavioural, pricing, exposure, and operational dimensions rather than a single dominant predictor.</p></li>
 </ul>
+</section>
+<section id="recommendations-for-future-research" class="level2">
+<h2 class="anchored" data-anchor-id="recommendations-for-future-research">Recommendations for Future Research</h2>
+<p><strong>Confirmatory Data Analysis:</strong> This study mainly concentrated on exploratory visual analytics and the identification of patterns. Future research might include statistical testing and confirmatory analysis to substantiate the identified connections between claim frequency, claim severity, pricing adequacy, and portfolio profitability.</p>
+<p><strong>Exploring Additional Variables:</strong> A broader examination that includes further operational and behavioral variables might yield greater understanding of motor insurance risk behavior. Factors like accident history, geographic exposure, weather patterns, repair cost inflation, fraud indicators, and telematics data could enhance insights into claim severity and underwriting fluctuations.</p>
+<p><strong>Longitudinal Analysis:</strong> As the present study analyzed underwriting data from 2022 to 2024, subsequent research extending the temporal scope may offer greater insight into the changing patterns of claims, underwriting cycle fluctuations, pricing sufficiency, and shifts in profitability over time.</p>
+<p><strong>Predictive Analytics and Machine Learning:</strong> Future research could investigate predictive modeling techniques like logistic regression, random forests, gradient boosting, or survival analysis to determine if multivariate underwriting variables can enhance the accuracy of predictions related to claim occurrence, claim severity, or underpricing behavior.</p>
+<p><strong>Behavioural Risk Analysis:</strong> Additional studies could explore policyholder behavioural tendencies more comprehensively, especially in relation to adverse selection actions and variances in claim usage among different insurance product frameworks. This could offer greater insight into how policy design and customer risk traits interact in motor insurance portfolios.</p>
 </section>
 </section>
 <section id="references" class="level1">
